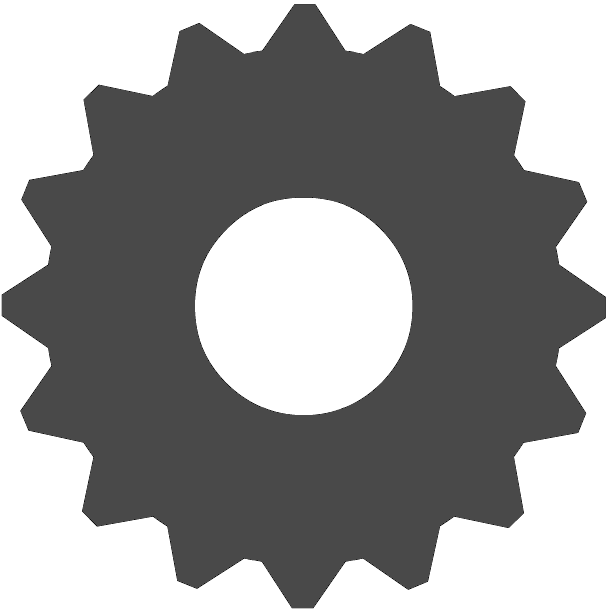
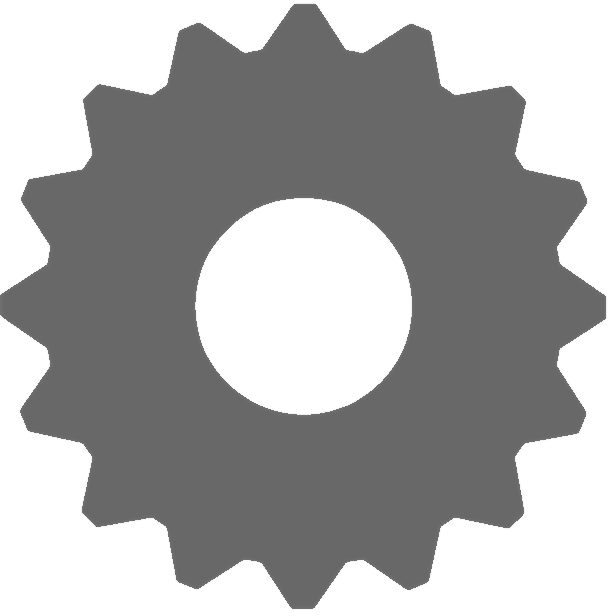
making a wicked sick huge gear
it is pretty fookin sik

diff --git a/mainPage.html b/mainPage.html
@@ -73,7 +73,7 @@
         data-bottom="transform:rotate(0deg);transform-origin:center;" 
         data-end="transform:rotate(360);">
       
-  <img id = "TinyGear" src="images/TinyGear.png" alt="Image could not be loaded" 
+  <img id = "HugeGear" src="images/HugeGear.png" alt="Image could not be loaded" 
         data-bottom="transform:rotate(0deg);transform-origin:center;" 
         data-end="transform:rotate(360);">
          

diff --git a/style/general.css b/style/general.css
@@ -28,11 +28,10 @@
     position:fixed;
 }
 
-#TinyGear {
-    height: 8vh;
-    top: 15vh;
+#HugeGear {
+    top: 5vh;
     left:90%;
-    width: 4%;
+    width: 50%;
     display: block;
     position:fixed;
 }
